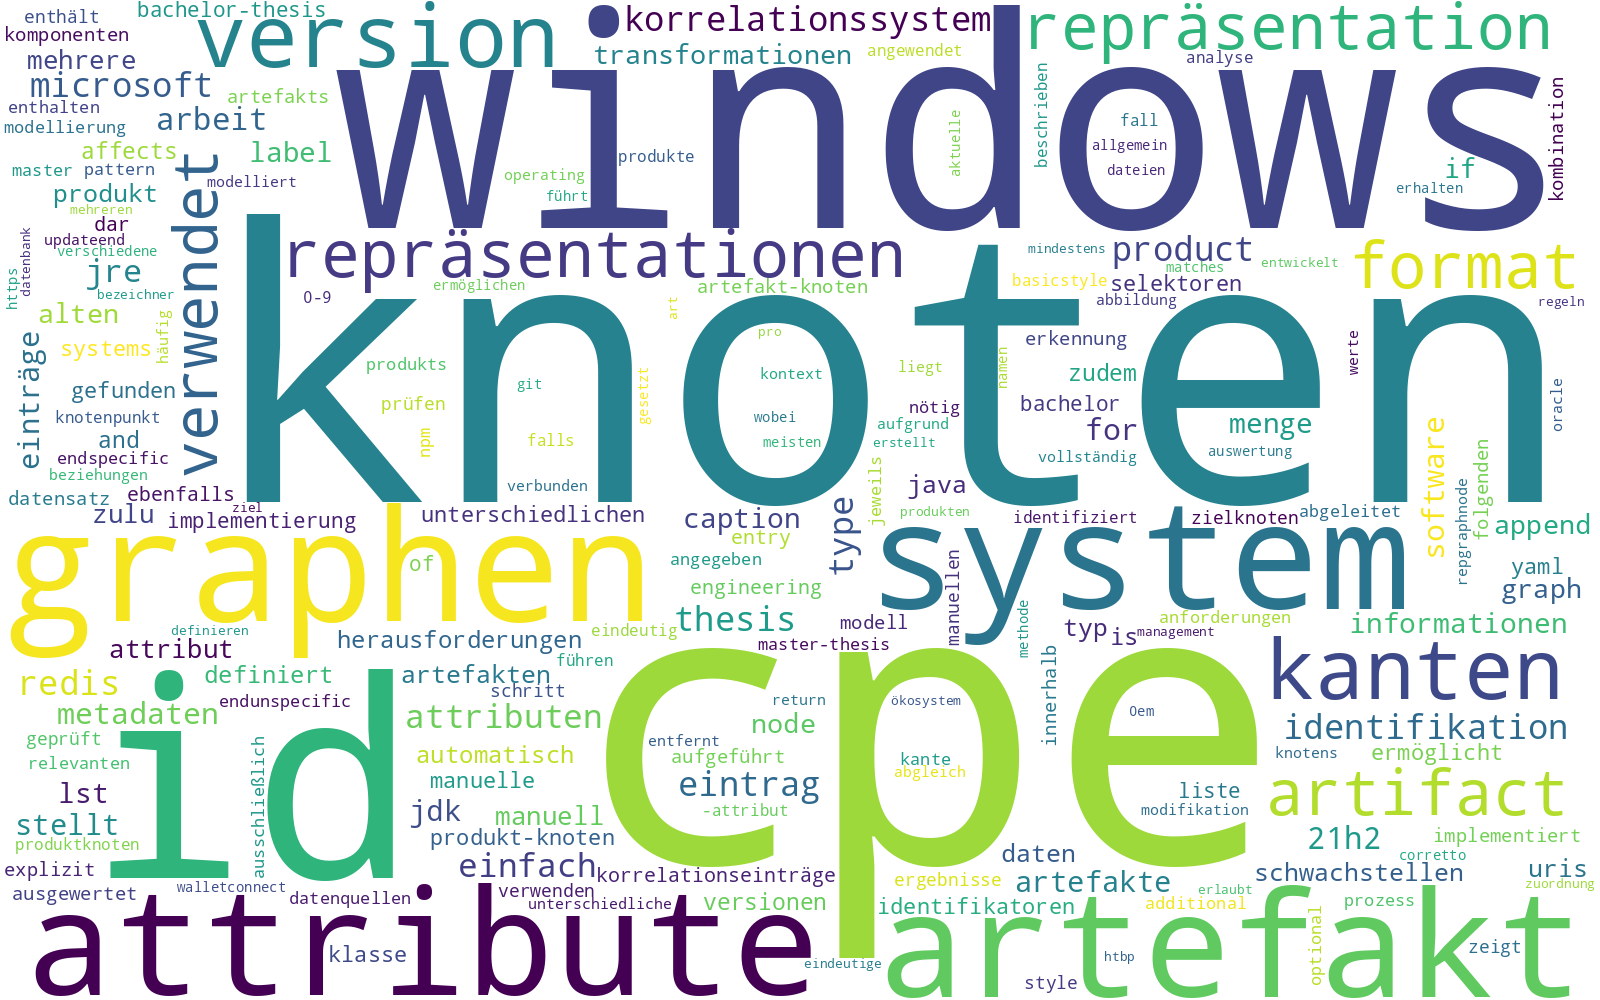
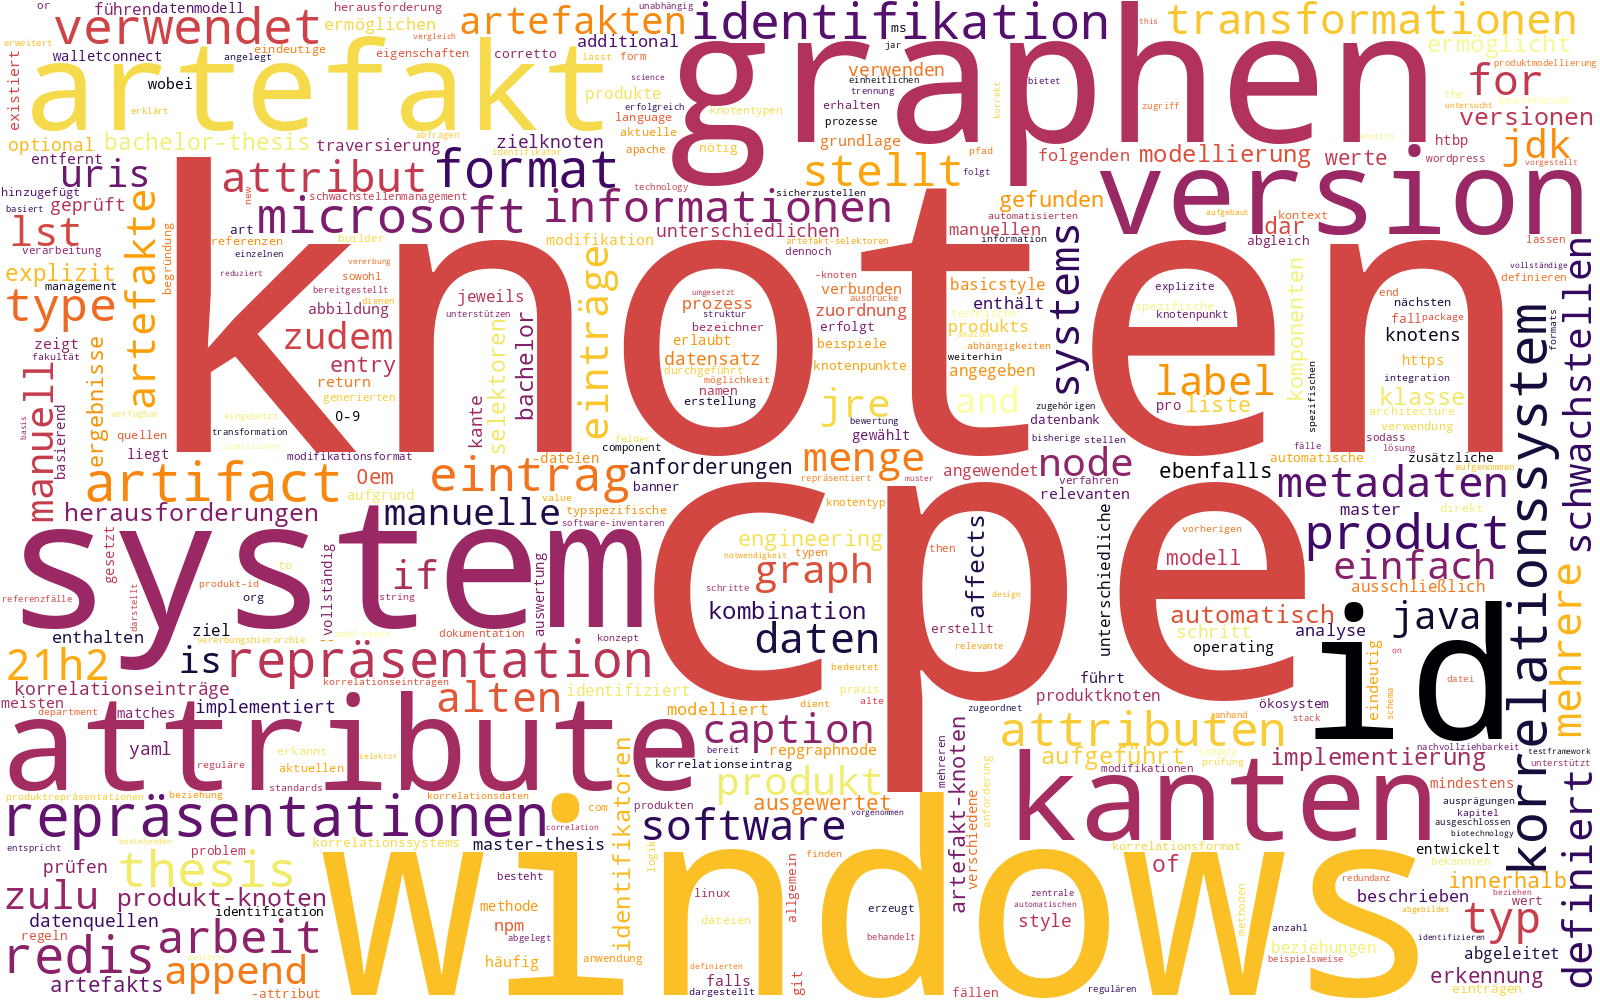
Updated word cloud

diff --git a/latex/word-frequency.py b/latex/word-frequency.py
@@ -4,14 +4,21 @@ from typing import List, Set
 import re
 from wordcloud import WordCloud
 import matplotlib.pyplot as plt
+import sys
+from multiprocessing import Pool, cpu_count
+from functools import partial
+import time
 
 def load_stopwords(file_path: Path) -> Set[str]:
+    """Loads stopwords from a file."""
     with file_path.open(encoding='utf-8') as f:
         return {line.strip().lower() for line in f if line.strip()}
 
 def extract_text_from_tex(file_path: Path) -> str:
+    """Extracts and cleans text from a .tex file."""
     with file_path.open(encoding='utf-8') as f:
         content = f.read()
+    # Remove LaTeX commands, comments, and math environments
     content = re.sub(r'\\[a-zA-Z]+(\[[^\]]*\])?(\{[^}]*\})?', '', content)
     content = re.sub(r'%.*', '', content)
     content = re.sub(r'\$.*?\$', '', content)
@@ -19,15 +26,19 @@ def extract_text_from_tex(file_path: Path) -> str:
     return content
 
 def normalize_text(text: str, stopwords: Set[str]) -> List[str]:
+    """Normalizes the text by converting to lowercase, removing punctuation, and filtering stopwords."""
     text = text.lower()
     text = re.sub(r'[^a-zäöüß0-9\- ]', ' ', text)
     words = text.split()
+    # Filter out stopwords, digits, and hyphens
     return [w for w in words if w not in stopwords and not w.isdigit() and w != '-']
 
 def collect_tex_files(base_dir: Path, exclude_dirs: List[str]) -> List[Path]:
+    """Recursively collects .tex files from a directory, excluding specified subdirectories."""
     return [p for p in base_dir.rglob('*.tex') if not any(e in p.parts for e in exclude_dirs)]
 
 def analyze_word_frequency(stopwords_file: Path) -> Counter:
+    """Analyzes word frequency in .tex files."""
     stopwords = load_stopwords(stopwords_file)
     base_dir = Path.cwd()
     exclude_dirs = ['kapitel-template']
@@ -39,18 +50,77 @@ def analyze_word_frequency(stopwords_file: Path) -> Counter:
         all_words.extend(words)
     return Counter(all_words)
 
-if __name__ == '__main__':
-    import sys
+def generate_wordcloud_for_colormap(colormap: str, word_freq: Counter, output_dir: Path):
+    """Worker function to generate and save a single word cloud image."""
+    print(f"Generating word cloud for colormap: {colormap}")
+    try:
+        wc = WordCloud(
+            width=1600,
+            height=1000,
+            background_color='white',
+            colormap=colormap,
+            max_words=400  # Limiting max words for a speed boost
+        )
+        wc.generate_from_frequencies(word_freq)
+        output_path = output_dir / f"{colormap}-{str(time.time())}.png"
+        wc.to_file(output_path)
+    except Exception as e:
+        print(f"Could not generate word cloud for colormap {colormap}: {e}")
+
+
+def main():
     # https://github.com/stopwords-iso/stopwords-de/blob/master/stopwords-de.txt
     stopwords_path = Path('stopwords-de.txt')
     if not stopwords_path.exists():
-        print("stopwords.txt file not found")
+        print("stopwords-de.txt file not found")
         sys.exit(1)
+
+    # 1. Analyze frequency (done only once)
+    print("Analyzing word frequencies...")
     word_freq = analyze_word_frequency(stopwords_path)
+    print("Analysis complete.")
 
-    wc = WordCloud(width=1600, height=1000, background_color='white')
-    wc.generate_from_frequencies(word_freq)
-    wc.to_file("wordcloud.png")
+    # 2. Define a specific list of colormaps to generate
+    # This list includes your favorites and the suggested alternatives.
+    base_colormaps = [
+        # Originals
+        'gist_heat', 'gnuplot', 'inferno', 'magma', 'plasma_r',
+    ]
 
-    # for word, freq in word_freq.most_common(100):
-    #     print(f'{word}: {freq}')
+    # Automatically add the reversed versions (e.g., 'viridis_r')
+    # to generate more iterations.
+    colormaps_to_generate = []
+    all_available_colormaps = plt.colormaps()
+    for cmap in base_colormaps:
+        if cmap in all_available_colormaps:
+            colormaps_to_generate.append(cmap)
+        else:
+            print("lol")
+
+    # Remove duplicates just in case
+    colormaps_to_generate = sorted(list(set(colormaps_to_generate)))
+
+
+    # 3. Create a directory to store the word clouds
+    output_dir = Path('wordclouds-iterations-' + str(time.time()))
+    output_dir.mkdir(exist_ok=True)
+
+    # 4. Set up and run the parallel processing pool
+    num_processes = cpu_count()
+    print(f"\nStarting word cloud generation for {len(colormaps_to_generate)} selected color maps with {num_processes} processes...")
+    print(f"Selected colormaps: {colormaps_to_generate}")
+
+
+    # Create a partial function to pass the constant arguments (word_freq, output_dir)
+    worker_func = partial(generate_wordcloud_for_colormap, word_freq=word_freq, output_dir=output_dir)
+
+    with Pool(processes=num_processes) as pool:
+        pool.map(worker_func, colormaps_to_generate)
+        pool.map(worker_func, colormaps_to_generate)
+        pool.map(worker_func, colormaps_to_generate)
+
+    print(f"\nAll {len(colormaps_to_generate)} word clouds have been generated in the folder '{output_dir}'.")
+
+
+if __name__ == '__main__':
+    main()
